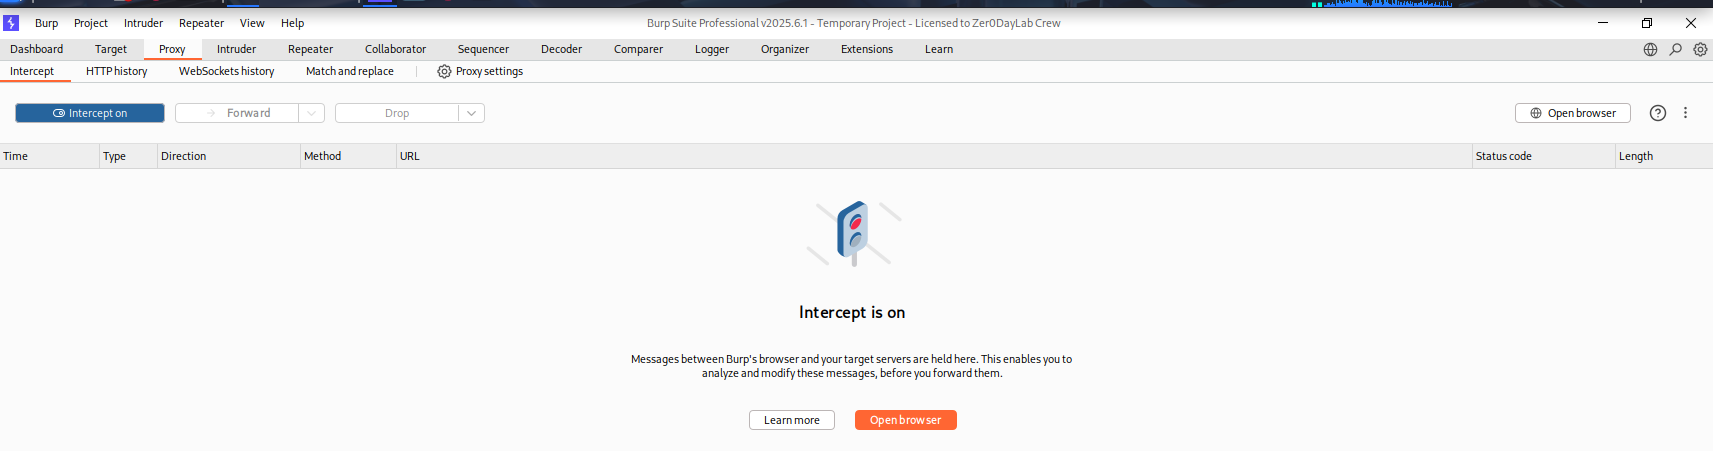
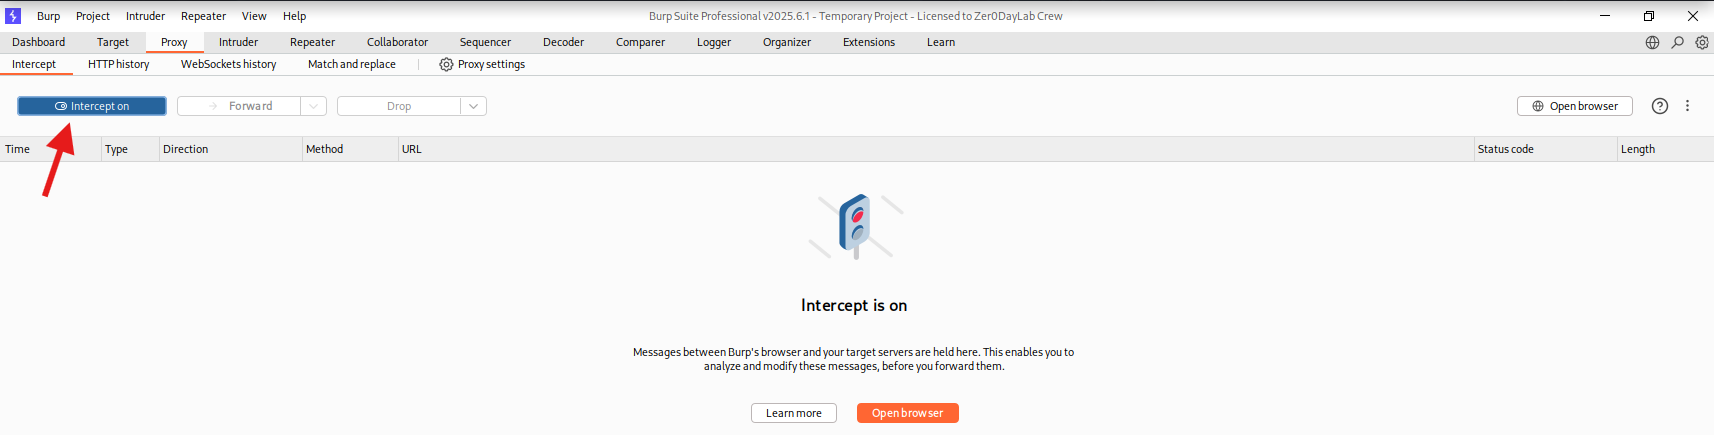
Feb 24, 2026, 1:28 PM

diff --git a/Training/Linux/Natas.md b/Training/Linux/Natas.md
@@ -45,6 +45,8 @@ Step 3: In that proxy web you will intercept, Then  click on intercept
 
 Step 4: In that intercept you will see the intercept on and intercept off, Then Click on the intercept on (Receive)
 
+![image](./images-1/image-0-4.png)                     ![image](./images-1/image-0-5.png)
+
 Step 6: Go to Firefox Browser (Connection on Foxy proxy extension)
 
 Step 7: Go to natas0.natas.labs.overthewire.org in firefox browser
